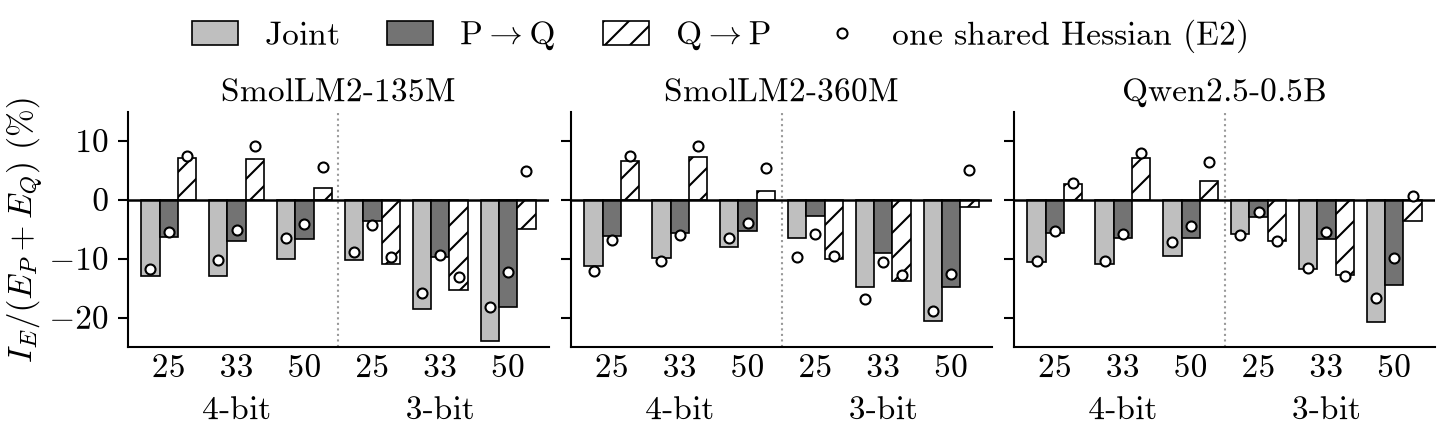
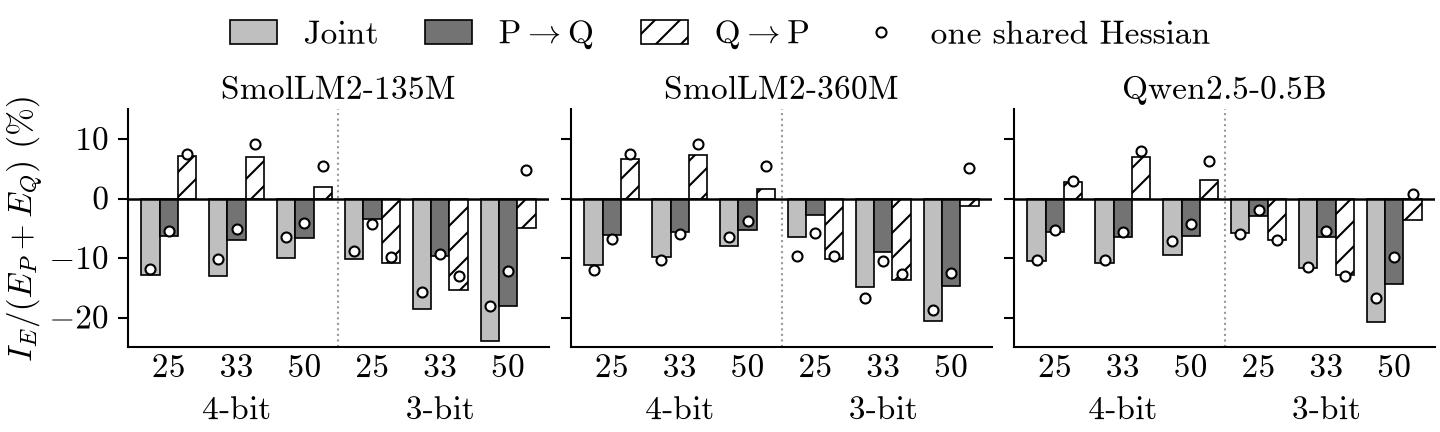
Package audit addressed (#43); Fig. 1 legend without the internal label
Claude-Session: https://claude.ai/code/session_01SozpQDEsALGFdKKQjucoSD

diff --git a/scripts/analysis/paper_figures.py b/scripts/analysis/paper_figures.py
@@ -131,7 +131,7 @@ def fig1_interaction(rows, models, paths, e2=True, height_cm=FIG1_HEIGHT_CM):
                 if e2 and e2pts:
                     n_e2 += len(e2pts)
                     ax.plot([p for p, _ in e2pts], [v for _, v in e2pts], ls="none", marker="o", ms=2.4, mfc="white",
-                            mec="black", mew=0.5, zorder=3, label="one shared Hessian (E2)")
+                            mec="black", mew=0.5, zorder=3, label="one shared Hessian")
             ax.set_title(m)
             if not have:
                 _pending(ax)
@@ -152,7 +152,7 @@ def fig1_interaction(rows, models, paths, e2=True, height_cm=FIG1_HEIGHT_CM):
         handles = [Patch(facecolor=c, edgecolor="black", linewidth=0.4, hatch=h, label=lab) for _, lab, c, h in BAR_STYLE]
         if e2 and n_e2:
             handles.append(Line2D([], [], ls="none", marker="o", ms=2.4, mfc="white", mec="black", mew=0.5,
-                                  label="one shared Hessian (E2)"))
+                                  label="one shared Hessian"))
         fig.legend(handles=handles, ncol=len(handles), loc="outside upper center")
         files = _save(fig, paths, "fig1_interaction_v2")
     cap = (f"Fig. 1 (v2, fp32, seed 0): layer-level interaction I_E/(E_P+E_Q), ratio of mean errors over layers, of the"

diff --git a/DECISIONS.md b/DECISIONS.md
@@ -237,3 +237,15 @@ Every judgment call, with the reason and the date (UTC). Newest last.
     (note, decision 7); (2) the paper names only models whose runs are complete (today SmolLM2-1.7B, two 4-bit cells),
     so the abstract, setup and Q3 grow with the data instead of announcing it. The watcher must run with the longest
     background timeout and a heartbeat below it, so that a timeout cannot silently end the keepalive again.
+43. **2026-11-13, the package audit.** An independent audit of package v1 (`context/author_package/note_src/audit.md`,
+    private) found every macro value correct and three blockers in the wording: the nine-task accuracy result in the
+    four weaker-first cells was only implicit (now stated next to the claim; the abstract and conclusion say "by
+    perplexity" / "for perplexity and KL"); "its penalty grows with compression" was false for Qwen2.5-0.5B at 4 bits in
+    fp32 (now "at 3 bits ... on all three models"); "what decides is whether the grid is fitted after the mask is
+    known" was contradicted by the re-fit test (now "the order, mask before grid; why is open", at the layer level). The
+    majors are fixed as well: E2 is every second block and in aggregate; the 50%+3 Q->P case turns super-additive with
+    one Hessian; the family effect fades at 60%+4 and the SmolLM2 scale trend is not monotone; the equal-storage 3-bit
+    win holds on the small SmolLM2 models only; Table 2 names its tasks; the IJCNN models re-quantized the pruned
+    weights; the run count, which the paper does not break down, is dropped; the note no longer claims printed page
+    numbers or runs that have not happened. To stay at 6 pages, the unit-check sentence and the layer-error sentence of
+    Q2 are cut (offered back in the note). The Fig. 1 legend drops the internal label "(E2)" (`paper_figures.py`).

diff --git a/reports/analysis/summary.md b/reports/analysis/summary.md
@@ -1,6 +1,6 @@
 # v2 analysis: current state
 
-Generated by `python scripts/make_tables.py` at 2026-11-13T13:12:26+00:00 (UTC). Every number below is computed by `scripts/analysis/` from the files named in each section; nothing is typed by hand. What is missing: `reports/analysis/missing.md` (418 entries).
+Generated by `python scripts/make_tables.py` at 2026-11-13T13:46:59+00:00 (UTC). Every number below is computed by `scripts/analysis/` from the files named in each section; nothing is typed by hand. What is missing: `reports/analysis/missing.md` (418 entries).
 
 ## Inputs
 
